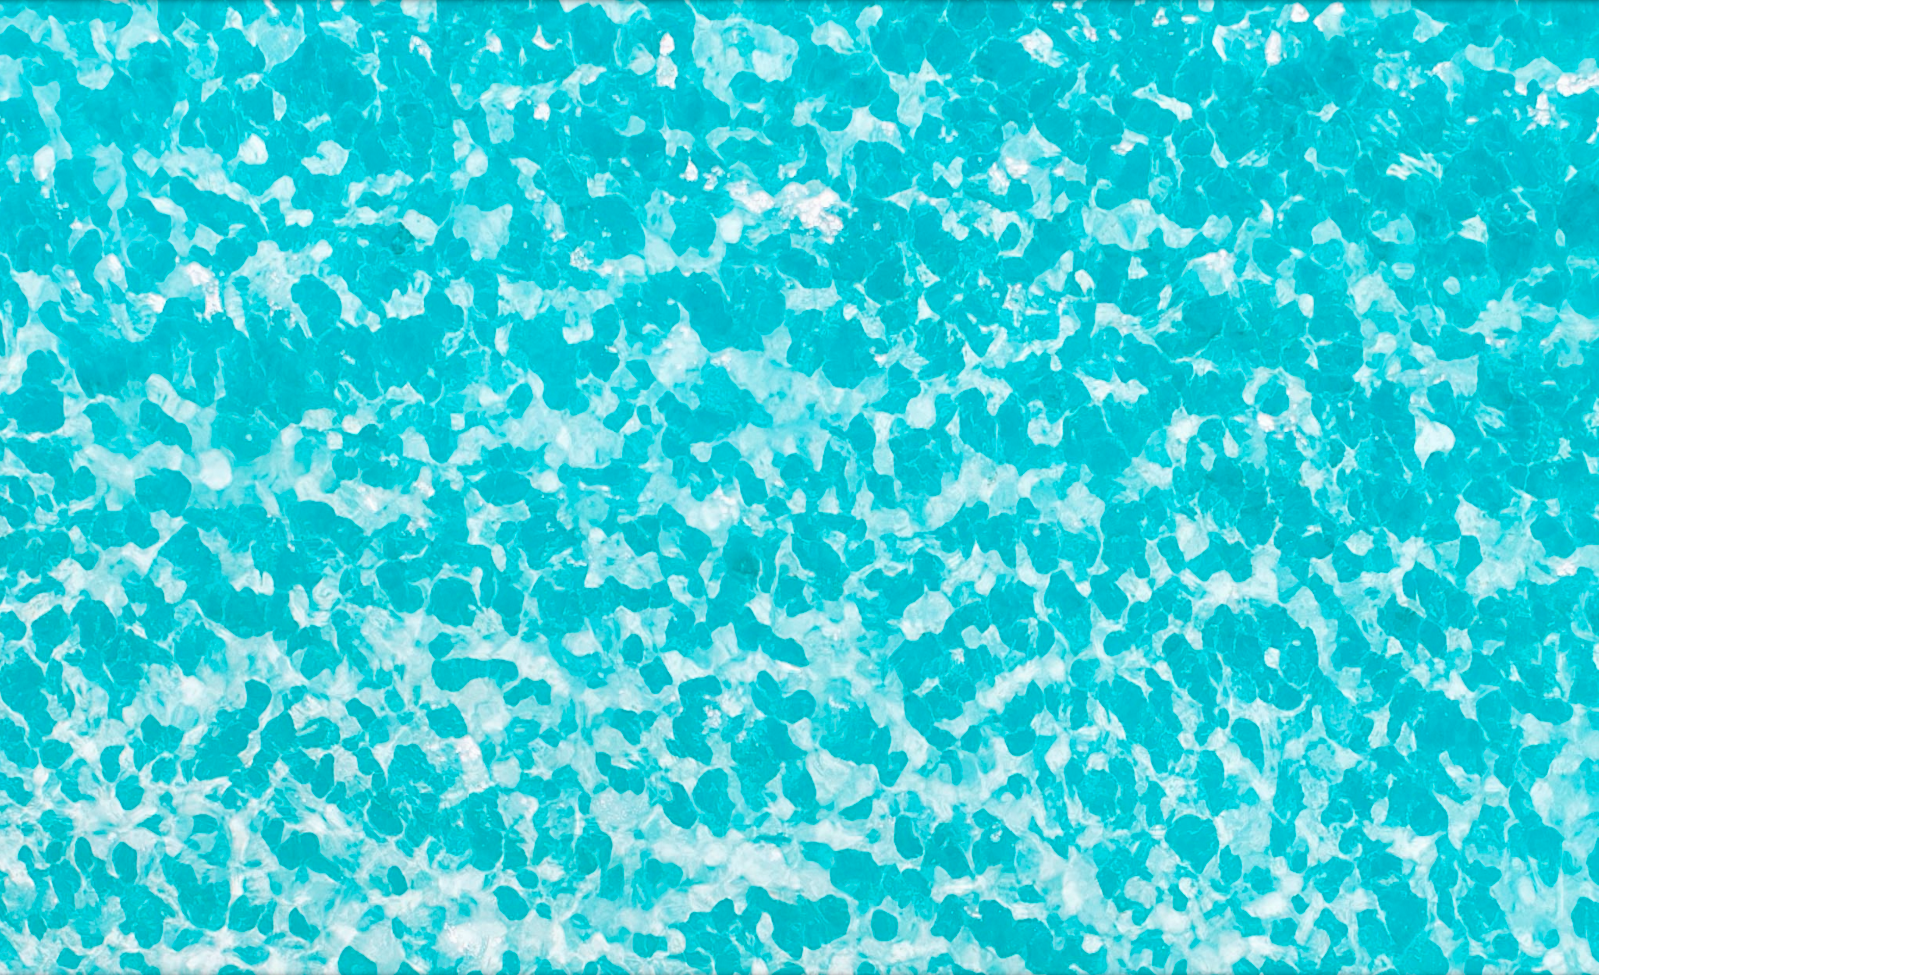
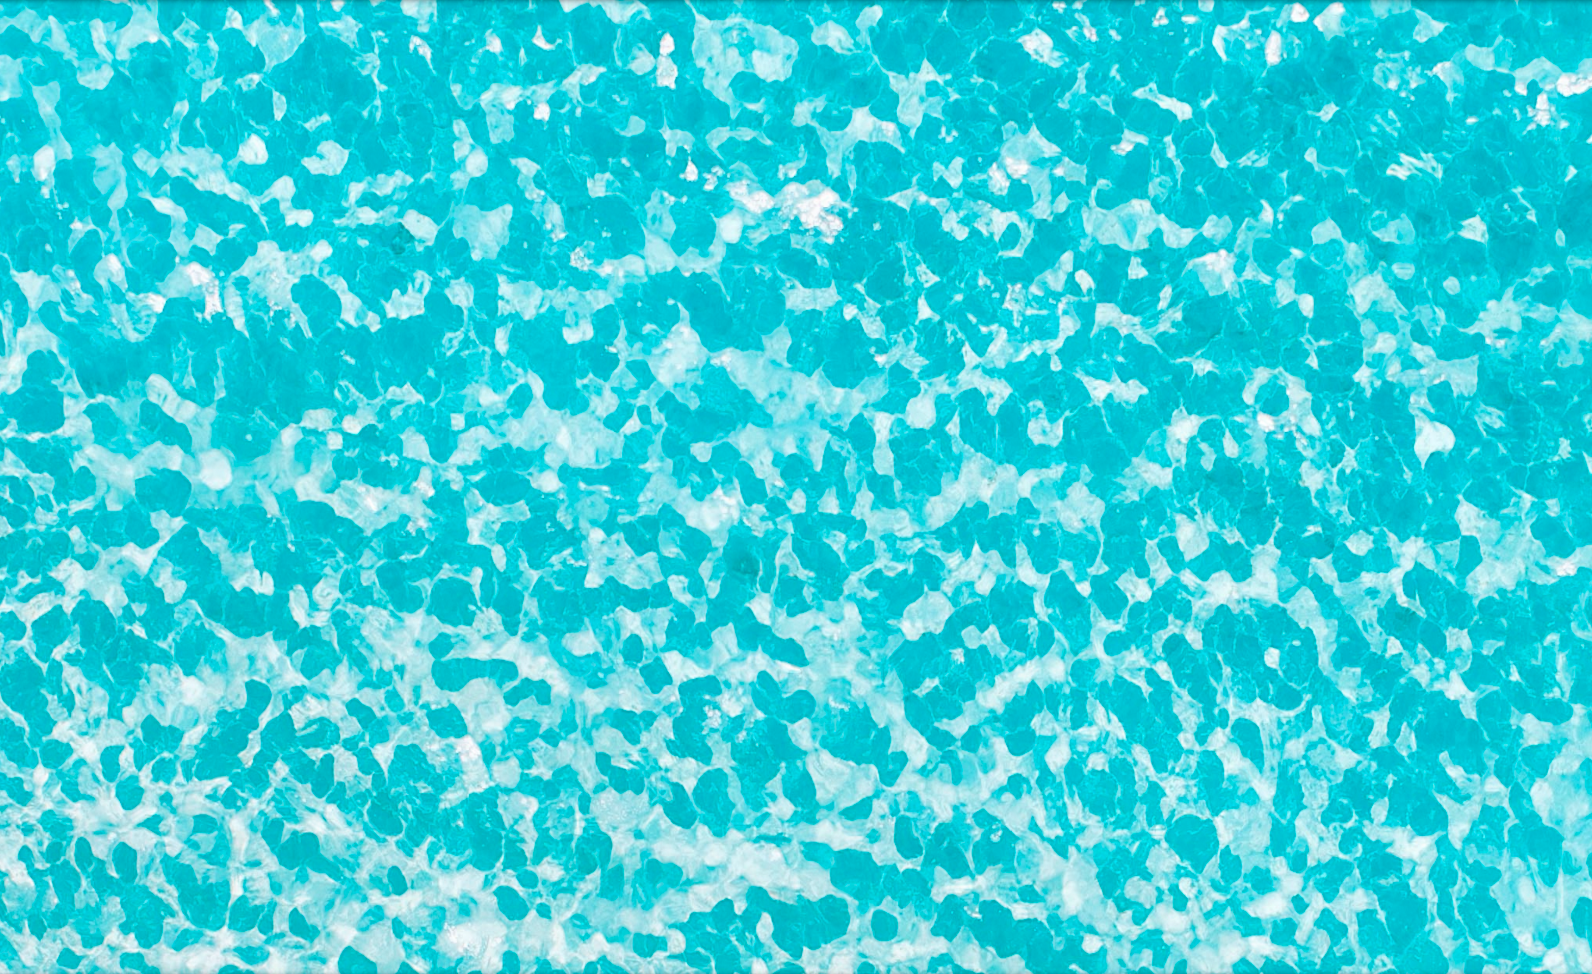
added legend

diff --git a/client/src/components/Legend/index.tsx b/client/src/components/Legend/index.tsx
@@ -1,0 +1,48 @@
+import React from "react";
+import LegendBg from "../../assets/background/legendbg.svg";
+import RightBoat from "../../assets/icons/boat right.png";
+import Volcano from "../../assets/icons/volcano.png";
+import Factory from "../../assets/icons/factory.png";
+import Deciduous from "../../assets/icons/deciduous.png";
+import Evergreen from "../../assets/icons/evergreen.png";
+import Pond from "../../assets/icons/pond.png";
+import Rock from "../../assets/icons/rock.png";
+import "./Legend.css";
+
+const Legend = () => {
+  return (
+    <div className="legend">
+      <h2>Legend</h2>
+      <div className="legend-row">
+        <img className="legend-img" src={RightBoat} />
+        <p className="legend-text">Import statement</p>
+      </div>
+
+      <div className="legend-row">
+        <img className="legend-img" src={Volcano} />
+        <p className="legend-text">Constructor</p>
+      </div>
+      <div className="legend-row">
+        <img className="legend-img" src={Factory} />
+        <p className="legend-text">Method</p>
+      </div>
+      <div className="legend-row">
+        <img className="legend-img" src={Deciduous} />
+        <p className="legend-text">Boolean</p>
+      </div>
+      <div className="legend-row">
+        <img className="legend-img" src={Pond} />
+        <p className="legend-text">Int</p>
+      </div>
+      <div className="legend-row">
+        <img className="legend-img" src={Evergreen} />
+        <p className="legend-text">String</p>
+      </div>
+      <div className="legend-row">
+        <img className="legend-img" src={Rock} />
+        <p className="legend-text">Other</p>
+      </div>
+    </div>
+  );
+};
+export default Legend;

diff --git a/client/src/App.js b/client/src/App.js
@@ -1,12 +1,18 @@
 import React from "react";
 import styles from "./App.module.css";
 import Island from "./components/Island";
+import Legend from "./components/Legend";
 
 function App() {
   return (
     <div className={styles.App}>
-      <div className={styles.leftSide} />
+      <div className={styles.leftSide}>
+        <Legend></Legend>
+      </div>
+
       <div className={styles.rightSide}>
+        <Island></Island>
+        <Island></Island>
         <Island></Island>
       </div>
     </div>

diff --git a/client/src/components/Legend/Legend.css b/client/src/components/Legend/Legend.css
@@ -1,0 +1,25 @@
+.legend {
+  position: absolute;
+  width: 25vh;
+  height: 55vh;
+  display: flex;
+  flex-direction: column;
+  background-color: rgba(255, 255, 255, 0.5);
+  padding-left: 30px;
+}
+
+.legend-row {
+  display: flex;
+  flex-direction: row;
+  margin-top: 2px;
+}
+
+.legend-img {
+  width: 60px;
+  height: 60px;
+}
+.legend-text {
+  margin-left: 12px;
+  font-size: 1.2em;
+  font-weight: 600;
+}

diff --git a/client/src/index.css b/client/src/index.css
@@ -16,8 +16,8 @@ code {
   position: absolute;
   top: 0;
   left: 0;
-  height: 100%;
-  width: 100%;
+  height: 100vh;
+  width: 100vw;
   background-image: url("./assets/background/bg.png");
   background-size: cover;
 }
@@ -28,7 +28,7 @@ code {
   background-size: cover;
   top: 0;
   left: 0;
-  height: 100%;
-  width: 100%;
+  height: 100vh;
+  width: 100vw;
   filter: url("#turbulence");
 }
